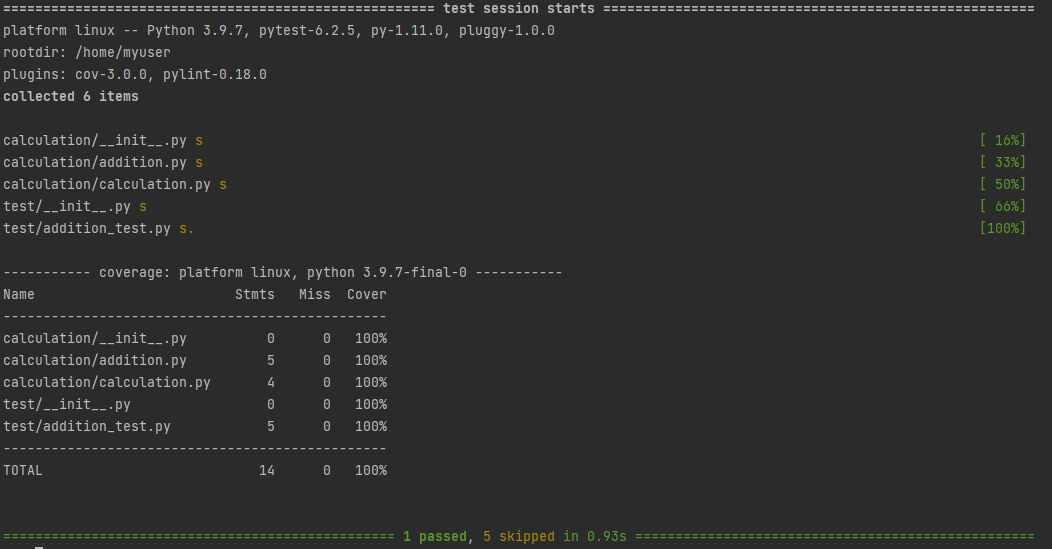
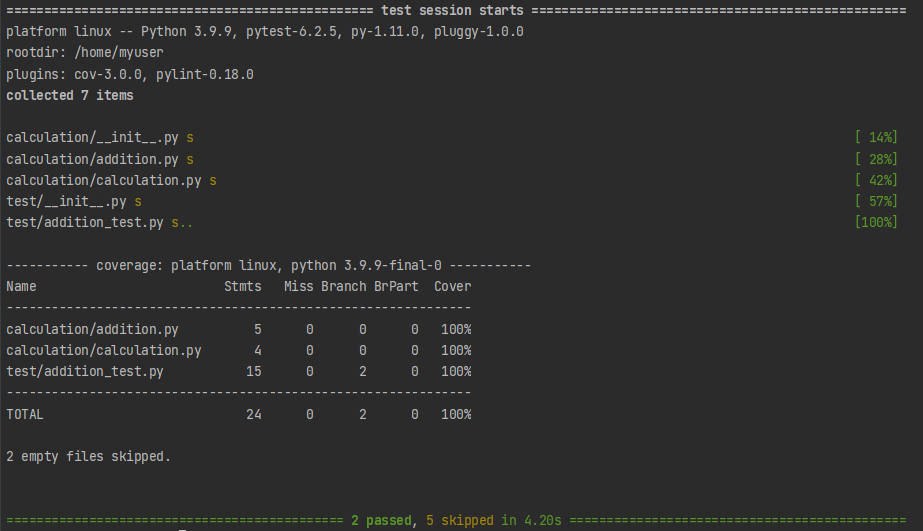
Added testing by csv file implementing pandas

diff --git a/test/addition_test.py b/test/addition_test.py
@@ -1,5 +1,6 @@
 """Testing Addition"""
 
+import pandas as pd
 from calculation.addition import Addition
 
 
@@ -11,3 +12,21 @@ def test_addition():
     result = addition.get_result()
     # Assert
     assert result == 3
+
+
+def test_addition_pandas():
+    """Testing subtraction method for two values"""
+    path = "test/test_data/addition.csv"
+    # Read in the cvs file
+    dataframe = pd.read_csv(path)
+
+    # Read each column of the table
+    value1 = dataframe["value_1"]
+    value2 = dataframe["value_2"]
+    result = dataframe["result"]
+
+    for i in range(result.size):
+        # Arrange
+        addition = Addition(value1[i], (value2[i],))
+        # Act and Assert
+        assert addition.get_result() == result[i]
